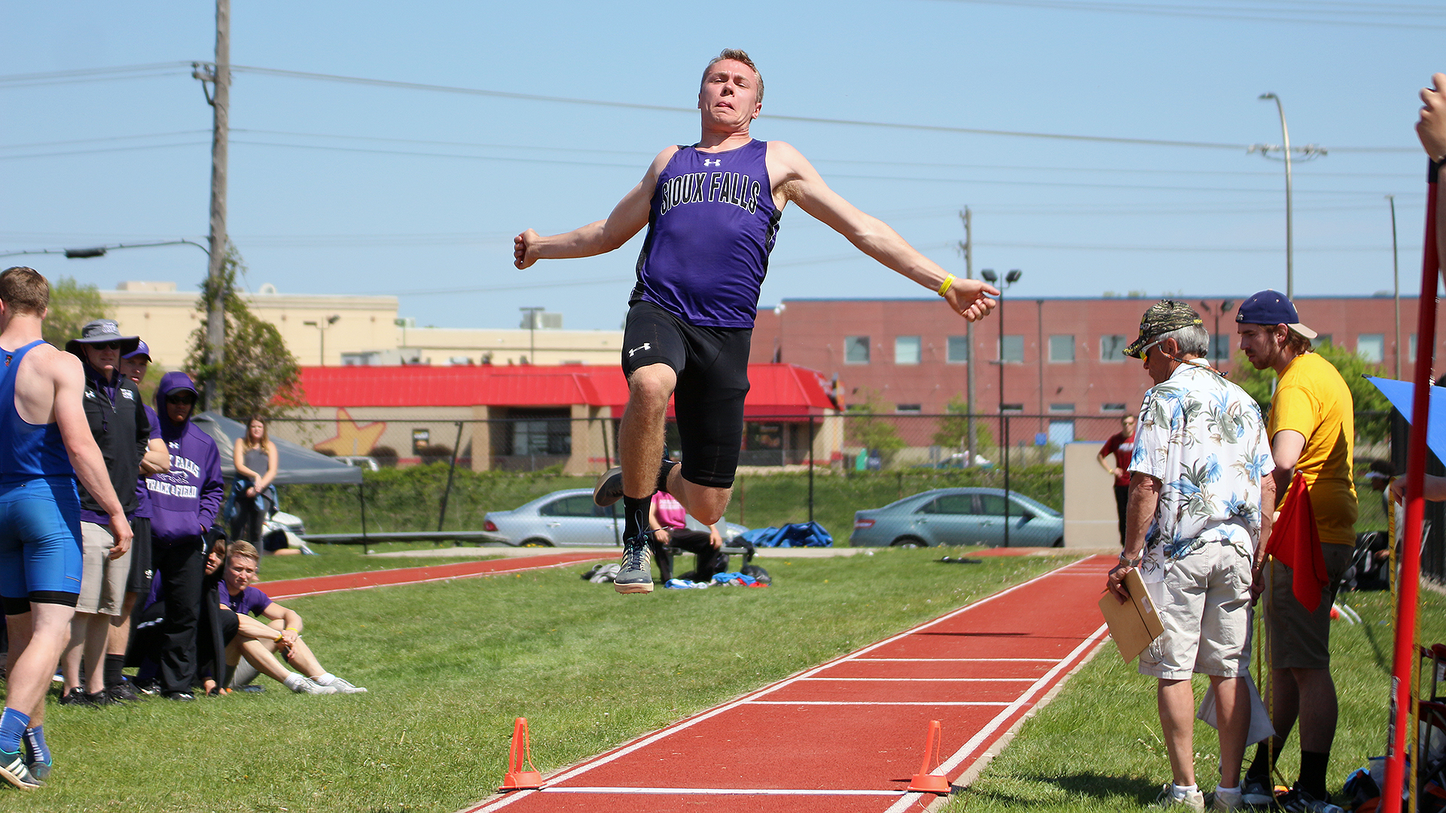
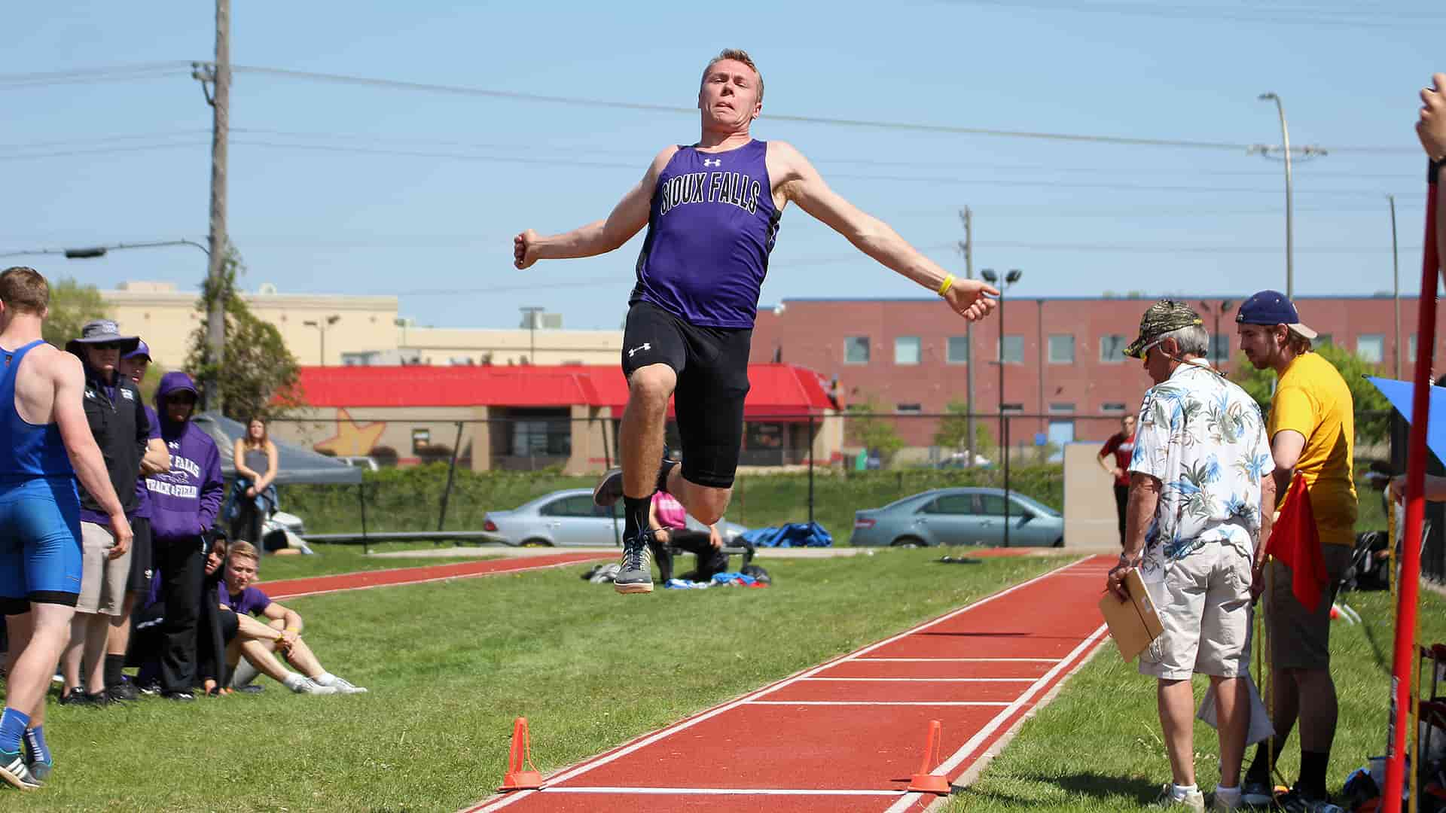
Compress images

diff --git a/index.html b/index.html
@@ -239,7 +239,7 @@
                         <div class="item-folio">
                                 
                             <div class="item-folio__thumb">
-                                <a href="images/portfolio/gallery/tt-min.jpg" class="thumb-link" title="Table Tennis" data-size="1050x700">
+                                <a href="images/portfolio/tt-min.jpg" class="thumb-link" title="Table Tennis" data-size="1050x700">
                                     <img src="images/portfolio/tt-min.jpg" 
                                          srcset="images/portfolio/tt-min.jpg 1x, images/portfolio/tt-min.jpg 2x" alt="">
                                 </a>
